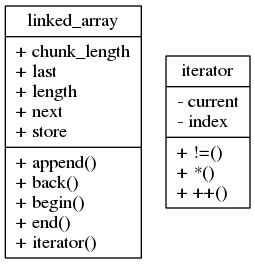
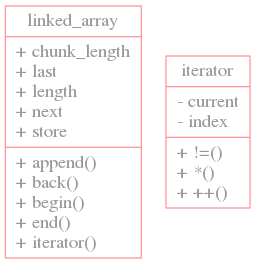
09.11.19

diff --git a/posts/deconstructing-cocomel/index.html b/posts/deconstructing-cocomel/index.html
@@ -122,7 +122,7 @@
   <title>clock</title>
   <circle cx="12" cy="12" r="10"></circle><polyline points="12 6 12 12 16 14"></polyline>
 </svg>
-          10 min read
+          11 min read
         </div><div>
           <svg xmlns="http://www.w3.org/2000/svg" width="24" height="24" viewBox="0 0 24 24" fill="none" stroke="currentColor" stroke-width="2" stroke-linecap="round" stroke-linejoin="round" class="icon icon-tag">
   <title>tag</title>
@@ -368,7 +368,7 @@ $MYGIT/Guad/tags2uml/tags2uml --members<span style="color:#f92672">=</span><span
   n1 [label=&#34;{bst|- key\l- left\l- right\l- store\l|+ insert()\l+ write()\l}&#34; style=filled fillcolor=&#34;#ffffff&#34; shape=&#34;record&#34;];
   n2 [label=&#34;{dynamic_array|+ capacity\l+ length\l+ store\l|+ append()\l+ back()\l}&#34; style=filled fillcolor=&#34;#ffffff&#34; shape=&#34;record&#34;];
   n3 [label=&#34;{hash_table|- capacity\l- lengths\l- store\l|+ find()\l- hash()\l+ insert()\l+ read()\l+ write()\l}&#34; style=filled fillcolor=&#34;#ffffff&#34; shape=&#34;record&#34;];
-  n4 [label=&#34;{linked_array|+ chunk_length\l- current\l- index\l+ last\l+ length\l+ next\l+ store\l|+ append()\l+ back()\l+ begin()\l+ end()\l+ iterator()\l}&#34; style=filled fillcolor=&#34;#ffffff&#34; shape=&#34;record&#34;];
+  n4 [label=&#34;{linked_array|+ chunk_length\l- current\l- index\l+ last\l+ length\l+ next\l+ store\l|+ append()\l+ back()\l+ begin()\l+ end()\l+ iterator()\l}&#34; style=filled color=&#34;#ff9999&#34; fontcolor=&#34;#999999&#34; fillcolor=&#34;#ffffff&#34; shape=&#34;record&#34;];
   n5 [label=&#34;{posting|- counts\l- id\l- id_capacity\l- id_length\l- id_store\l|  append()\l  decompress()\l  write()\l}&#34; style=filled fillcolor=&#34;#ffffff&#34; shape=&#34;record&#34;];
 <span style="color:#75715e">#+END_SRC</span></code></pre></td></tr></table>
 </div>
@@ -474,8 +474,8 @@ methods and attributes into the parent class.</p>
 </span><span style="margin-right:0.4em;padding:0 0.4em 0 0.4em;color:#7f7f7f">2
 </span></code></pre></td>
 <td style="vertical-align:top;padding:0;margin:0;border:0;">
-<pre style="color:#f8f8f2;background-color:#272822;-moz-tab-size:4;-o-tab-size:4;tab-size:4"><code class="language-graphviz-dot" data-lang="graphviz-dot">n1 [label=&#34;{linked_array|+ chunk_length\l+ last\l+ length\l+ next\l+ store\l|+ append()\l+ back()\l+ begin()\l+ end()\l+ iterator()\l}&#34; style=filled fillcolor=&#34;#ffffff&#34; shape=&#34;record&#34;];
-n2 [label=&#34;{iterator|- current\l- index\l|+ !=()\l+ *() \l+ ++()\l}&#34; style=filled fillcolor=&#34;#ffffff&#34; shape=&#34;record&#34;];</code></pre></td></tr></table>
+<pre style="color:#f8f8f2;background-color:#272822;-moz-tab-size:4;-o-tab-size:4;tab-size:4"><code class="language-graphviz-dot" data-lang="graphviz-dot">n1 [label=&#34;{linked_array|+ chunk_length\l+ last\l+ length\l+ next\l+ store\l|+ append()\l+ back()\l+ begin()\l+ end()\l+ iterator()\l}&#34; style=filled color=&#34;#ff9999&#34; fontcolor=&#34;#999999&#34; style=filled fillcolor=&#34;#ffffff&#34; shape=&#34;record&#34;];
+n2 [label=&#34;{iterator|- current\l- index\l|+ !=()\l+ *() \l+ ++()\l}&#34; style=filled color=&#34;#ff9999&#34; fontcolor=&#34;#999999&#34; style=filled fillcolor=&#34;#ffffff&#34; shape=&#34;record&#34;];</code></pre></td></tr></table>
 </div>
 </div>
 
@@ -543,17 +543,34 @@ n2 [label=&#34;{iterator|- current\l- index\l|+ !=()\l+ *() \l+ ++()\l}&#34; sty
 <td>provide array</td>
 <td><strong>∞</strong> <br/><br/> <em>256 items initially, but doubles when reaching capacity</em></td>
 <td>search_cli.cpp<br/> posting.cpp<br/> search.cpp<br/> search_cgi.cpp<br/> index.cpp</td>
-<td>Once when searching, <code>docNos</code> is created.</td>
+<td>Once when searching from <code>search_cli.cpp</code>, <code>docNos</code> is created. This comes from searching via <code>search.cpp</code>. <br/><br/> When a search is run via <code>search.cpp</code> a postings list is decompressed for each search term; that&rsquo;s one <code>dynamic_array</code> per word. These postings go into the <code>intersect_postings()</code> function and a single <code>dynamic_array</code> is returned. This is what is passed to <code>search_cli.cpp</code>.</td>
 </tr>
+</tbody>
+</table>
 
+<p>inverted index, or sometimes
+inverted file , has become the standard term
+in IR.[*]The basic idea of an inverted index
+is shown in Figure 1.3 . We keep a dictionary
+of terms (sometimes also referred to as a
+vocabulary or lexicon ; in this book, we use
+dictionary for the data structure and
+vocabulary for the set of terms). Then for
+each term, we have a list that records which
+documents the term occurs in.</p>
+
+<table>
+<thead>
 <tr>
-<td>hash_table.h</td>
-<td>provide hash table</td>
-<td><strong>65536</strong> <br/><br/> <em>1 &lt;&lt; 16 == 65536 = 0x10000</em></td>
-<td></td>
-<td></td>
+<th>hash_table.h</th>
+<th>provide hash table</th>
+<th><strong>65536</strong> <br/><br/> <em>1 &lt;&lt; 16 == 65536 = 0x10000</em></th>
+<th></th>
+<th></th>
 </tr>
+</thead>
 
+<tbody>
 <tr>
 <td>str.h</td>
 <td>provide strings + str helper funcs</td>

diff --git a/index.html b/index.html
@@ -114,7 +114,7 @@
             <svg xmlns="http://www.w3.org/2000/svg" width="24" height="24" viewBox="0 0 24 24" fill="none" stroke="currentColor" stroke-width="2" stroke-linecap="round" stroke-linejoin="round" class="icon icon-clock">
   <title>clock</title>
   <circle cx="12" cy="12" r="10"></circle><polyline points="12 6 12 12 16 14"></polyline>
-</svg> 10 min read -
+</svg> 11 min read -
             Nov 6, 2019
           </span>
         </li>

diff --git a/posts/index.html b/posts/index.html
@@ -114,7 +114,7 @@
             <svg xmlns="http://www.w3.org/2000/svg" width="24" height="24" viewBox="0 0 24 24" fill="none" stroke="currentColor" stroke-width="2" stroke-linecap="round" stroke-linejoin="round" class="icon icon-clock">
   <title>clock</title>
   <circle cx="12" cy="12" r="10"></circle><polyline points="12 6 12 12 16 14"></polyline>
-</svg> 10 min read -
+</svg> 11 min read -
             Nov 6, 2019
           </span>
         </li>

diff --git a/tags/cpp/index.html b/tags/cpp/index.html
@@ -114,7 +114,7 @@
             <svg xmlns="http://www.w3.org/2000/svg" width="24" height="24" viewBox="0 0 24 24" fill="none" stroke="currentColor" stroke-width="2" stroke-linecap="round" stroke-linejoin="round" class="icon icon-clock">
   <title>clock</title>
   <circle cx="12" cy="12" r="10"></circle><polyline points="12 6 12 12 16 14"></polyline>
-</svg> 10 min read -
+</svg> 11 min read -
             Nov 6, 2019
           </span>
         </li>

diff --git a/tags/ir/index.html b/tags/ir/index.html
@@ -114,7 +114,7 @@
             <svg xmlns="http://www.w3.org/2000/svg" width="24" height="24" viewBox="0 0 24 24" fill="none" stroke="currentColor" stroke-width="2" stroke-linecap="round" stroke-linejoin="round" class="icon icon-clock">
   <title>clock</title>
   <circle cx="12" cy="12" r="10"></circle><polyline points="12 6 12 12 16 14"></polyline>
-</svg> 10 min read -
+</svg> 11 min read -
             Nov 6, 2019
           </span>
         </li>
